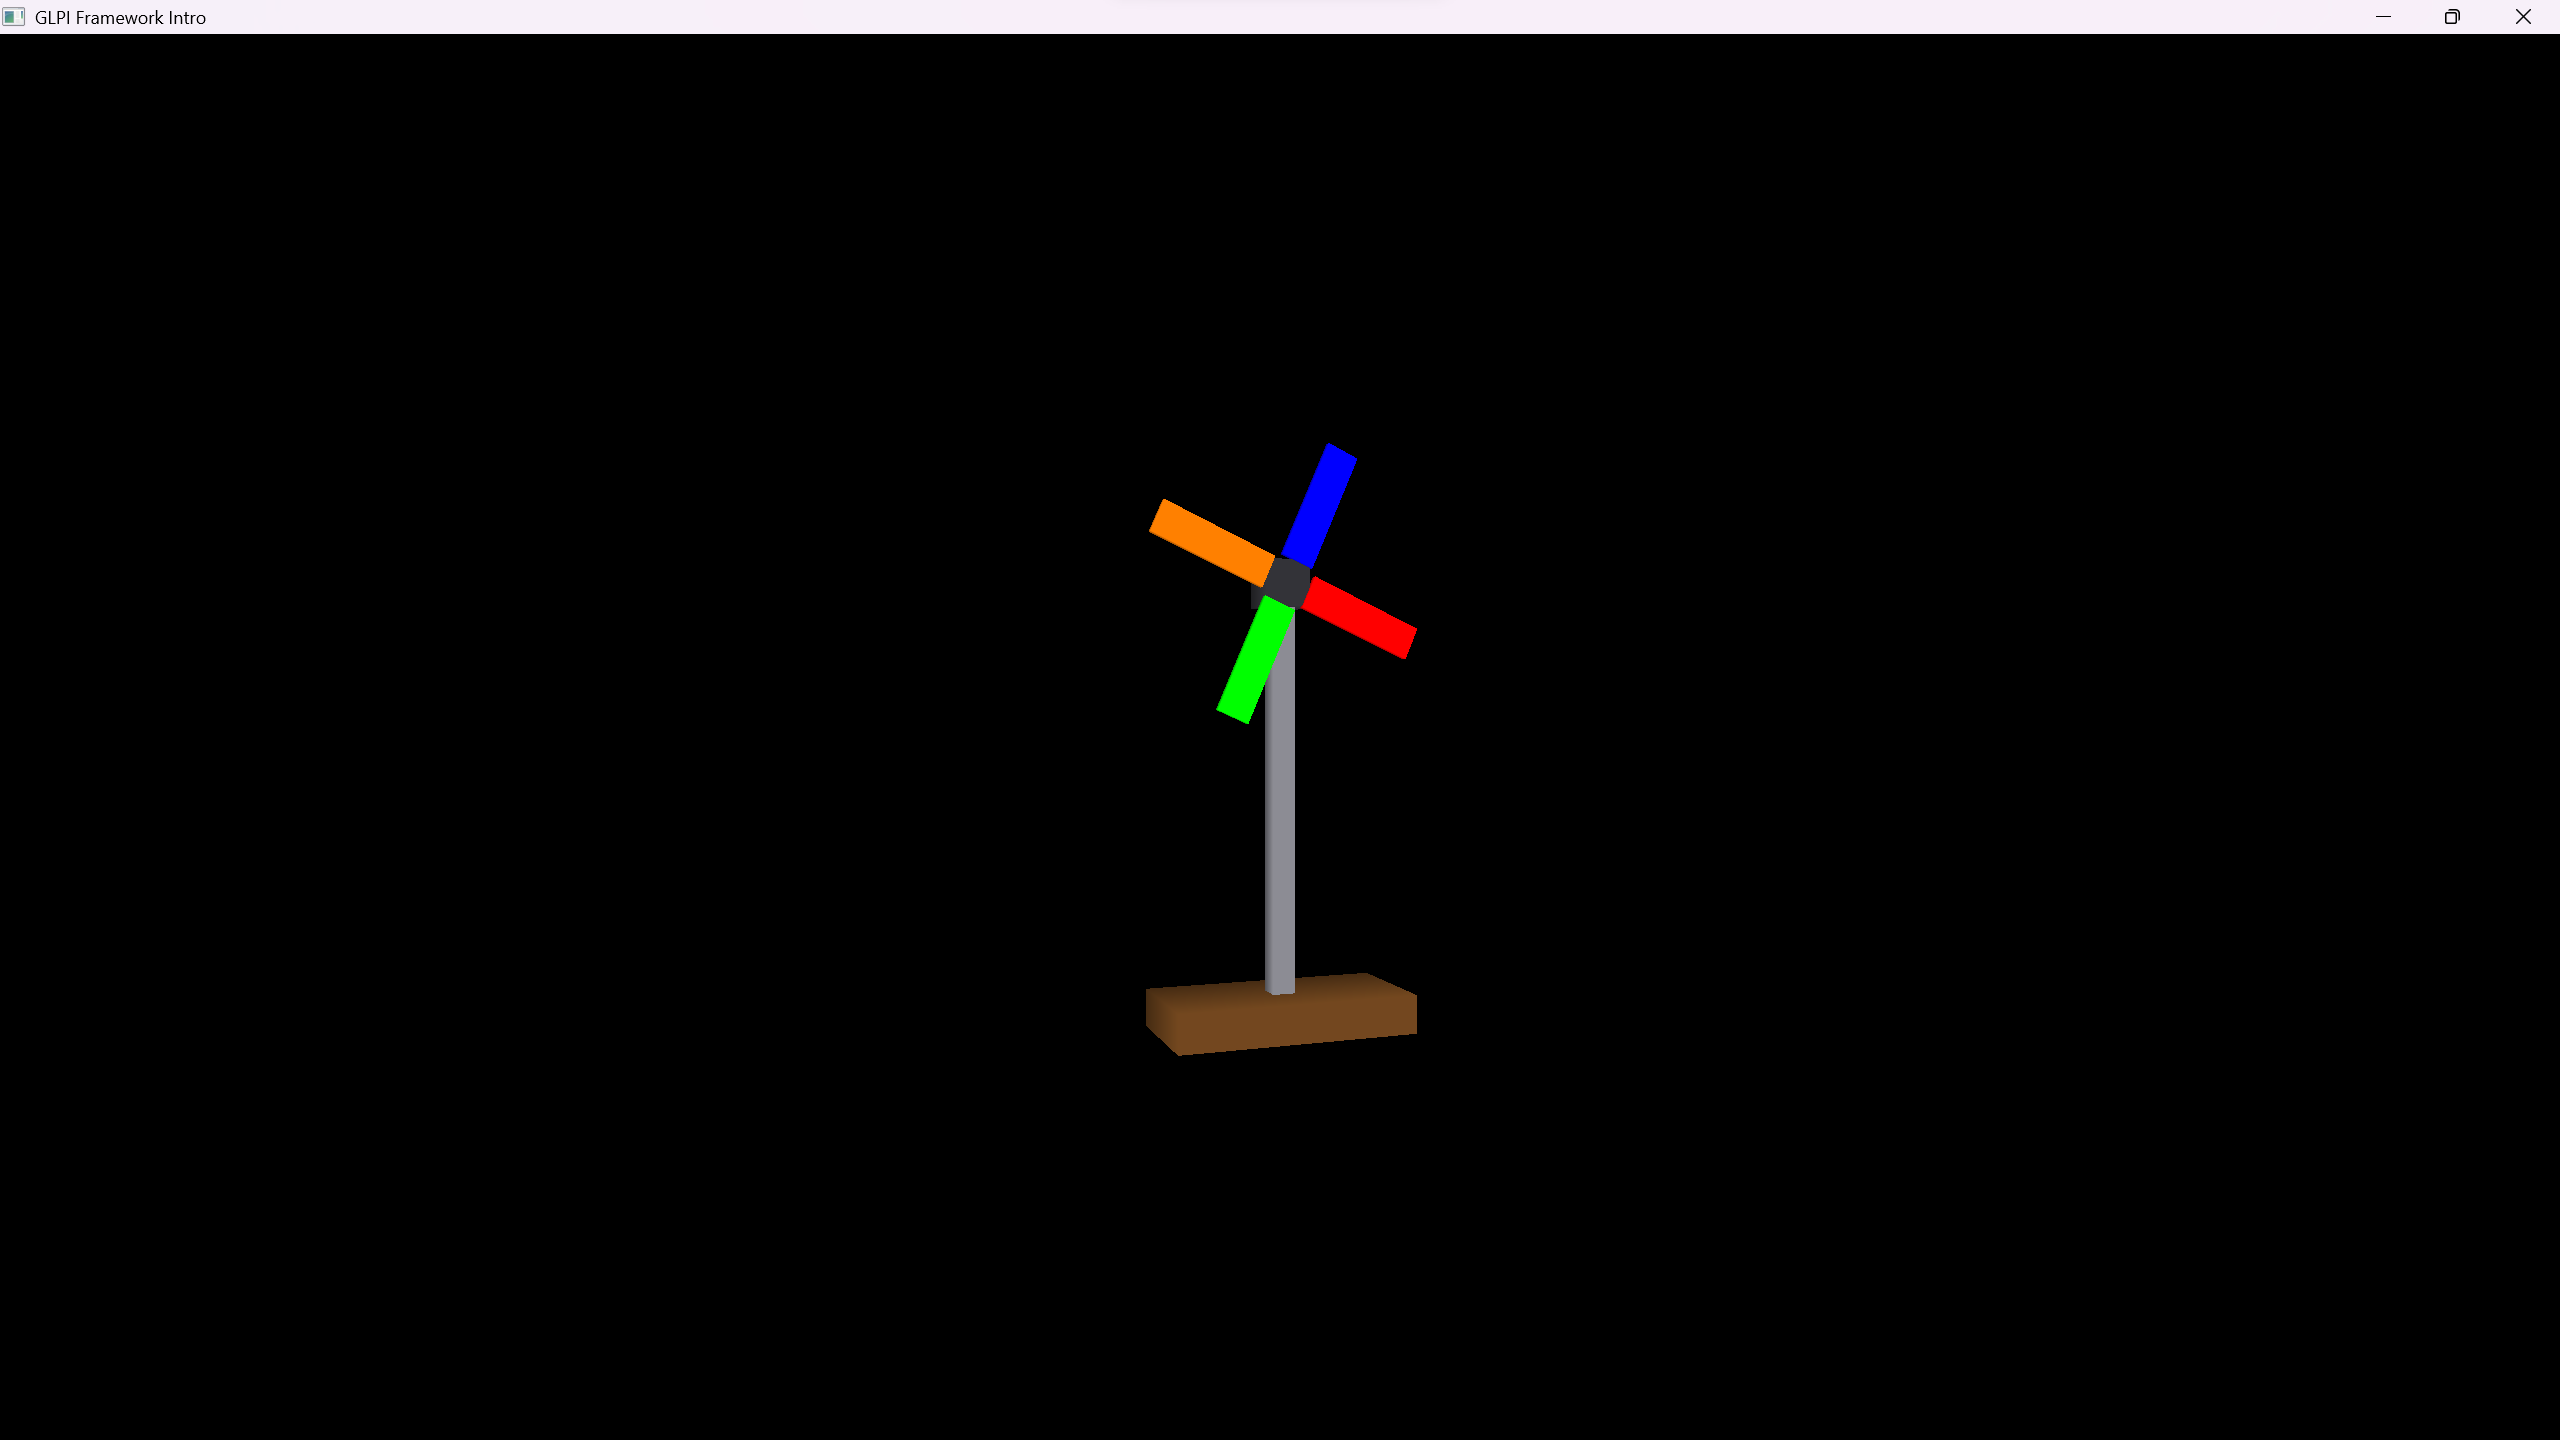
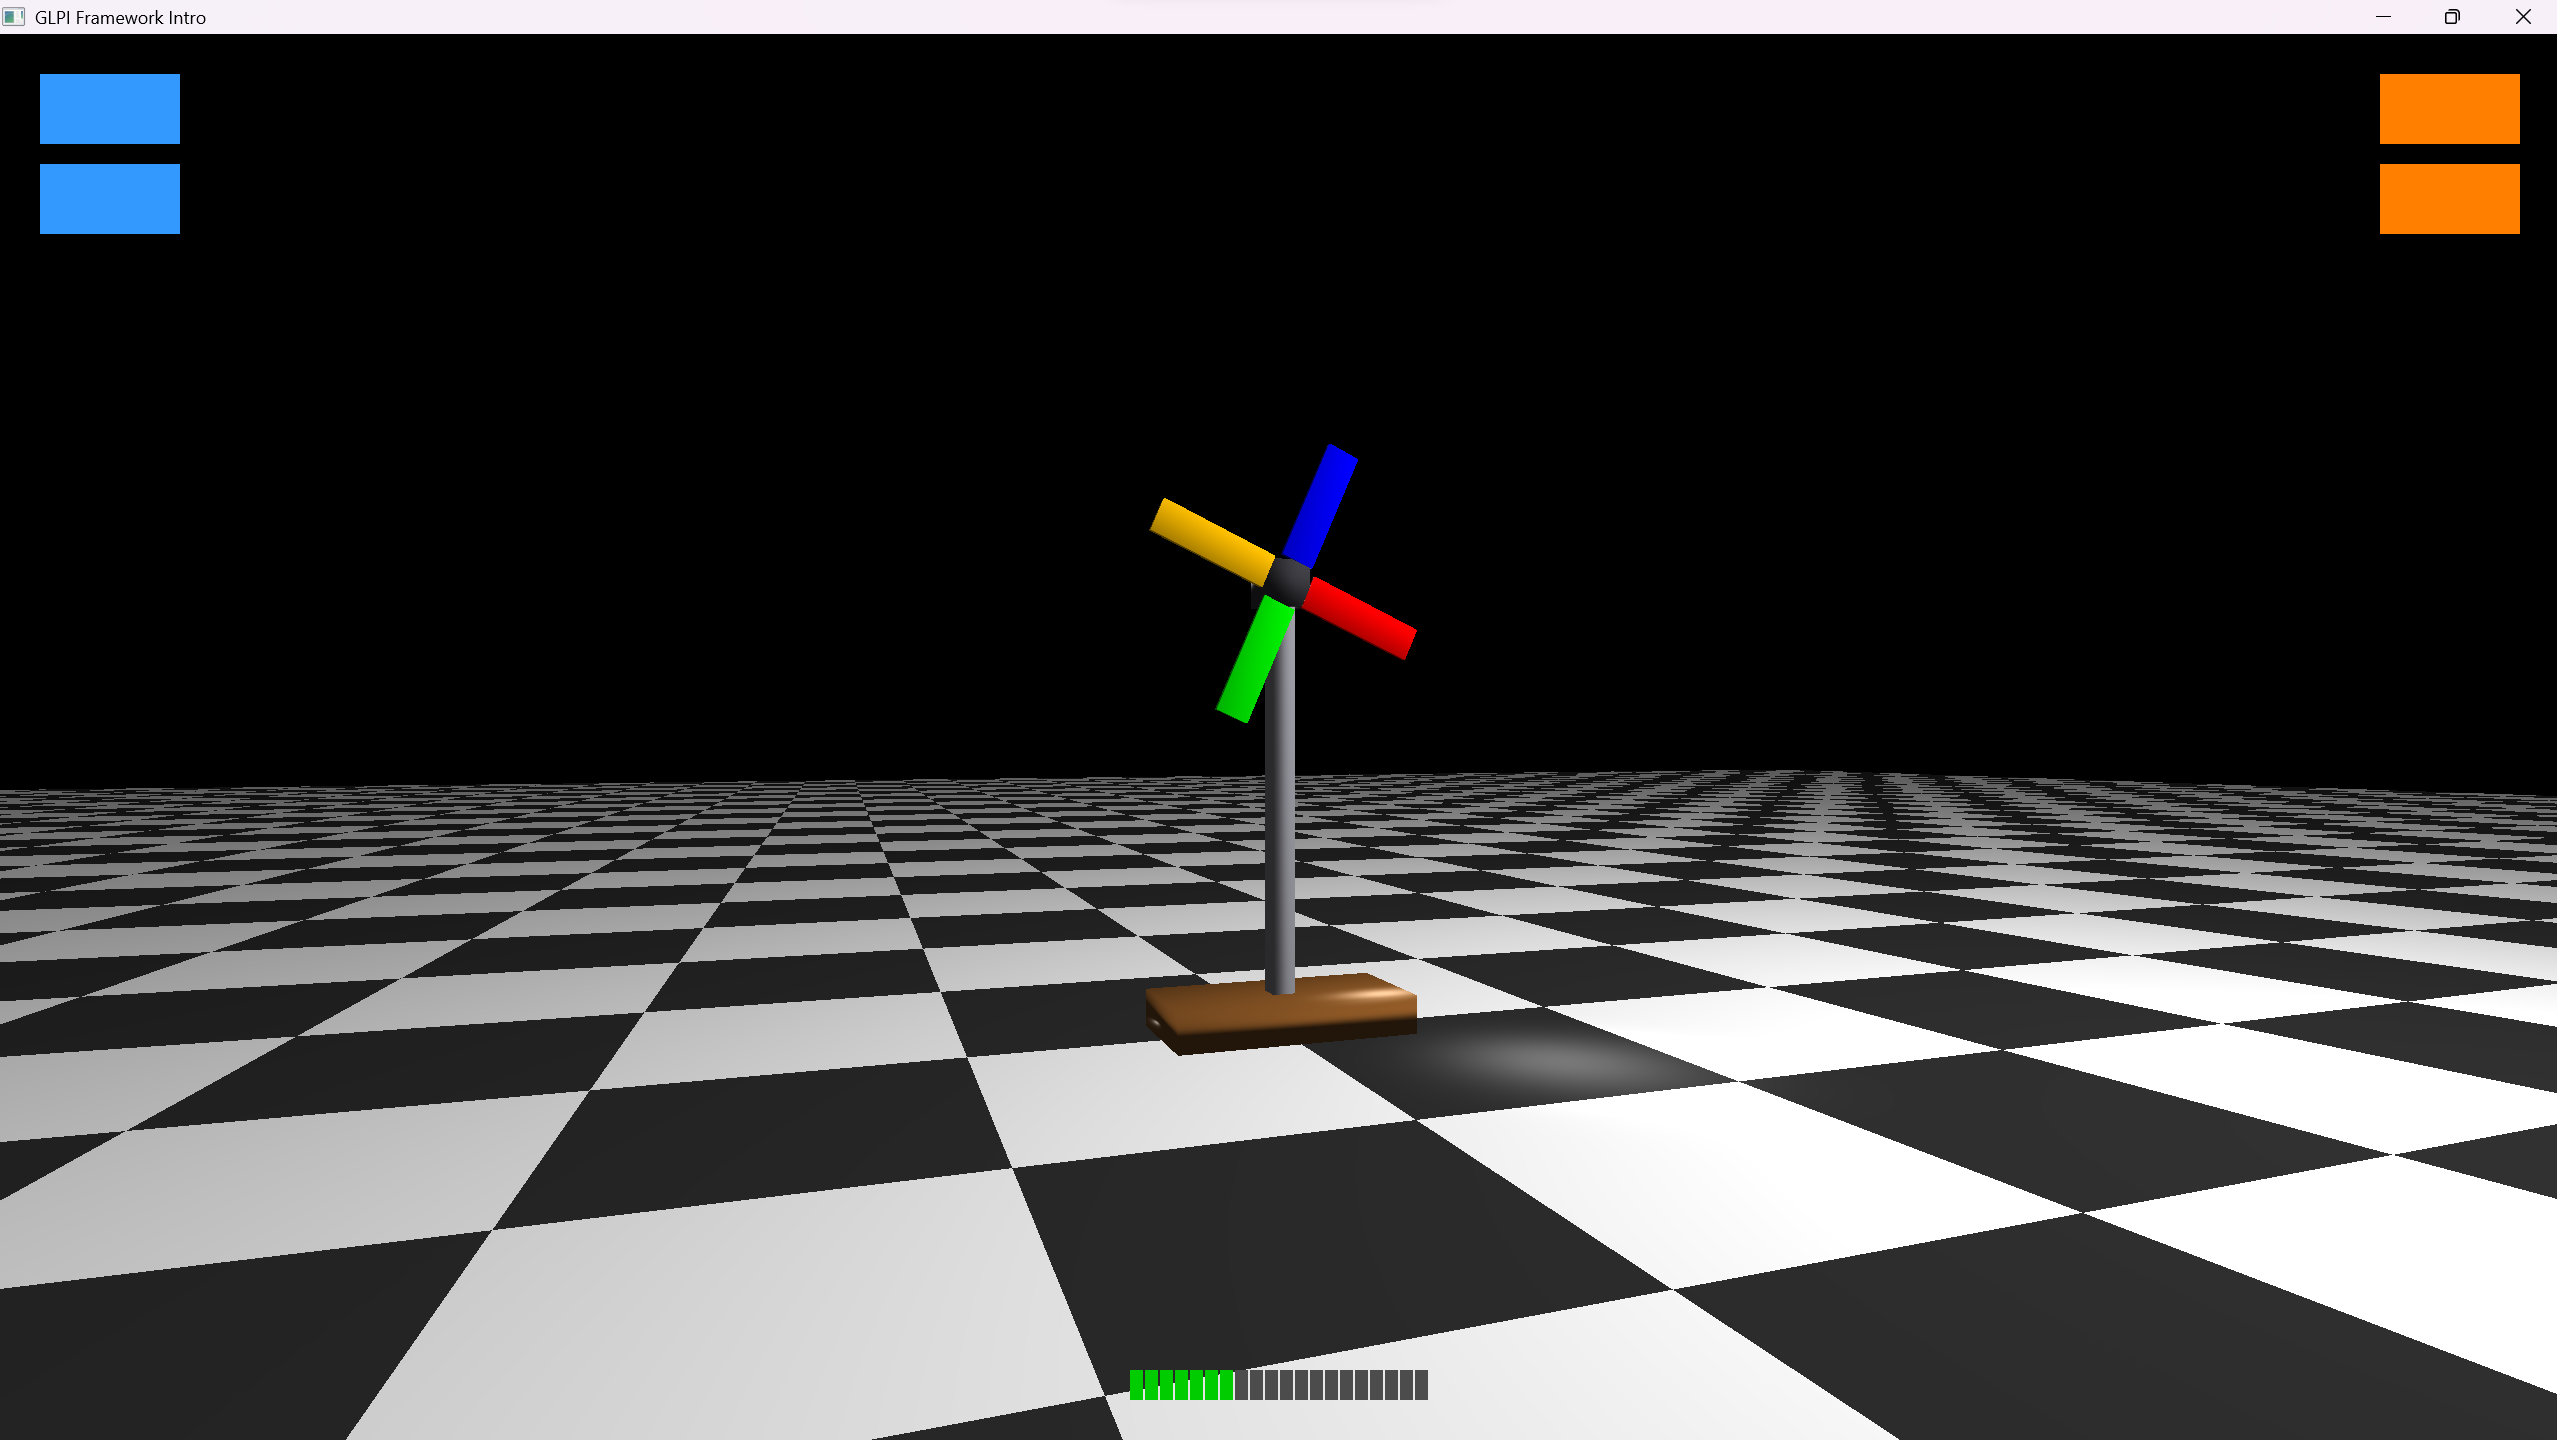
read me & photos

diff --git a/Assignment3/README.md b/Assignment3/README.md
@@ -1,4 +1,4 @@
-# Assignment 2 — 3D Fan
+# Assignment 3 — 3D Fan
 
 A 3D table fan — base, pole, hub, and four spinning blades — built from a
 single 8-vertex cube drawn seven times with a different model matrix per part
@@ -10,6 +10,16 @@ Gestures (mouse on Desktop/Web = touch on Android):
 - **Tap / click** — toggles the fan ON/OFF and logs `Fan ON` / `Fan OFF`.
 - **Swipe / click-drag** — spins the fan faster proportional to drag speed;
   releasing returns it to base speed.
+
+### Bonus features
+
+- **Smooth zoom/speed easing** — instead of an instant jump per button press,
+  the camera distance and fan speed ease toward their target values over a
+  few frames rather than snapping immediately.
+- **Press-and-hold** — holding down `+SPD` / `-SPD` / `+ZOOM` / `-ZOOM`
+  repeats the action every frame instead of requiring repeated clicks, the
+  same level-triggered pattern the Scene Graph HUD examples use for their
+  D-pad.
 
 ## Prerequisites
 
